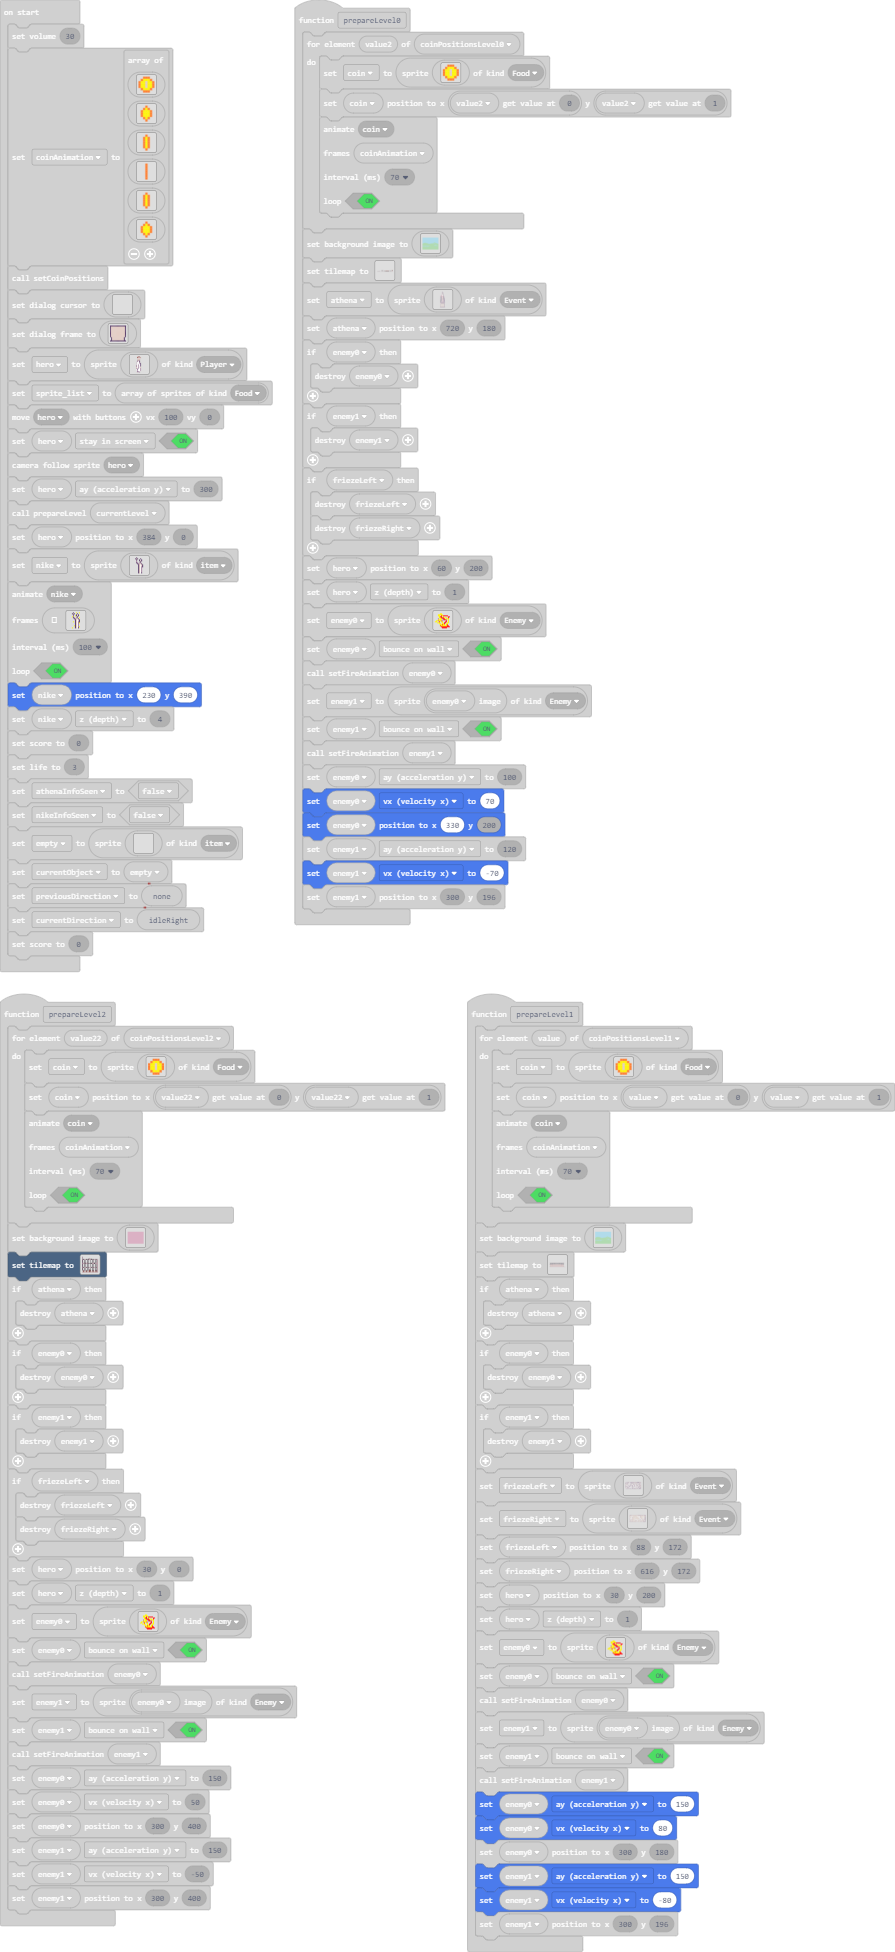
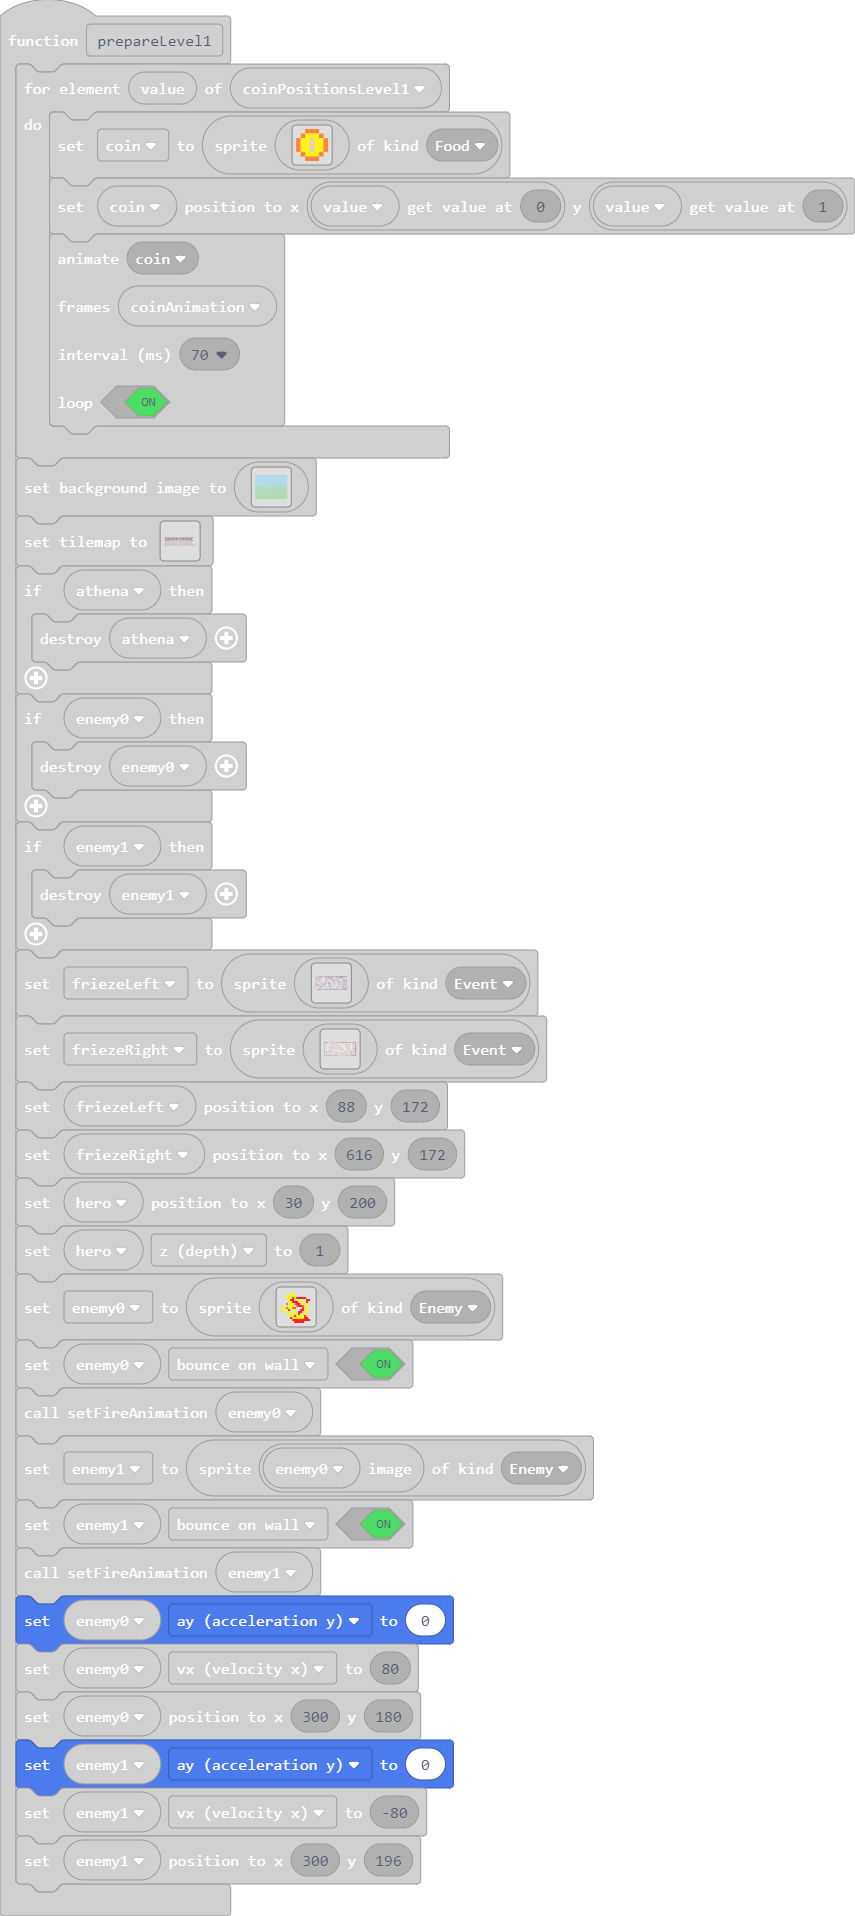
Update main.blocks, main.ts

diff --git a/main.ts b/main.ts
@@ -2610,10 +2610,10 @@ c c c c c c c c c c c c c c c c c c c c c c c c c c c c c 1 c c c c c c c c c c 
     enemy1 = sprites.create(enemy0.image, SpriteKind.Enemy)
     enemy1.setFlag(SpriteFlag.BounceOnWall, true)
     setFireAnimation(enemy1)
-    enemy0.ay = 150
+    enemy0.ay = 0
     enemy0.vx = 80
     enemy0.setPosition(300, 180)
-    enemy1.ay = 150
+    enemy1.ay = 0
     enemy1.vx = -80
     enemy1.setPosition(300, 196)
 }
